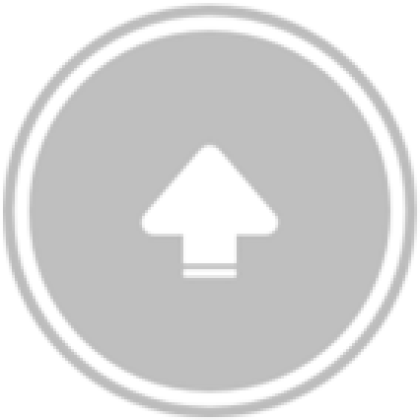
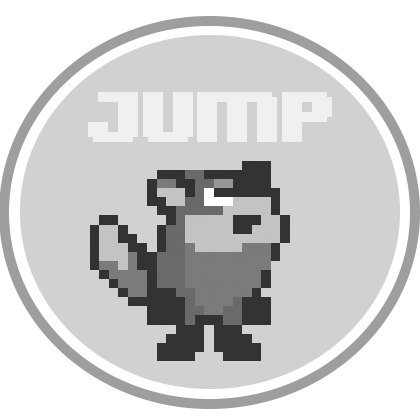
botoes

diff --git a/cliente/js/fase1.js b/cliente/js/fase1.js
@@ -29,6 +29,7 @@ export default class fase1 extends Phaser.Scene {
     this.load.image("placaa", "assets/mapa/placaa.png");
     this.load.image("flores", "assets/mapa/flores.png");
     this.load.image("jump", "assets/jump.png");
+    this.load.image("dash", "assets/dash.png");
     this.load.image("fundo2", "assets/fundo2.png");
     this.load.image("coracao", "assets/coracao.png");
     this.load.image("casa", "assets/mapa/casa.png");
@@ -440,12 +441,11 @@ export default class fase1 extends Phaser.Scene {
     });
 
     this.botaoDash = this.add
-      .image(635, 300, "jump")
+      .image(635, 300, "dash")
       .setDepth(10)
       .setScrollFactor(0)
       .setInteractive();
 
-    this.botaoDash.setAngle(90);
 
     // Ajustando o tamanho da imagem para o botão de dash
     this.botaoDash.setDisplaySize(80, 80); // Ajuste o tamanho conforme necessário
@@ -778,7 +778,7 @@ this.fullscreen = this.add.image(30, 30, "fullscreen")
 
     if (!this.personagemLocal.body.blocked.down) {
       if ((encostadoEsquerda || encostadoDireita) && !this.isDashing &&
-    this.personagemLocal.body.velocity.y > 30)  {
+    this.personagemLocal.body.velocity.y > 2)  {
         const ladoAtual = encostadoEsquerda ? "left" : "right";
 
         if (this.ultimaParedeGrudada !== ladoAtual) {
